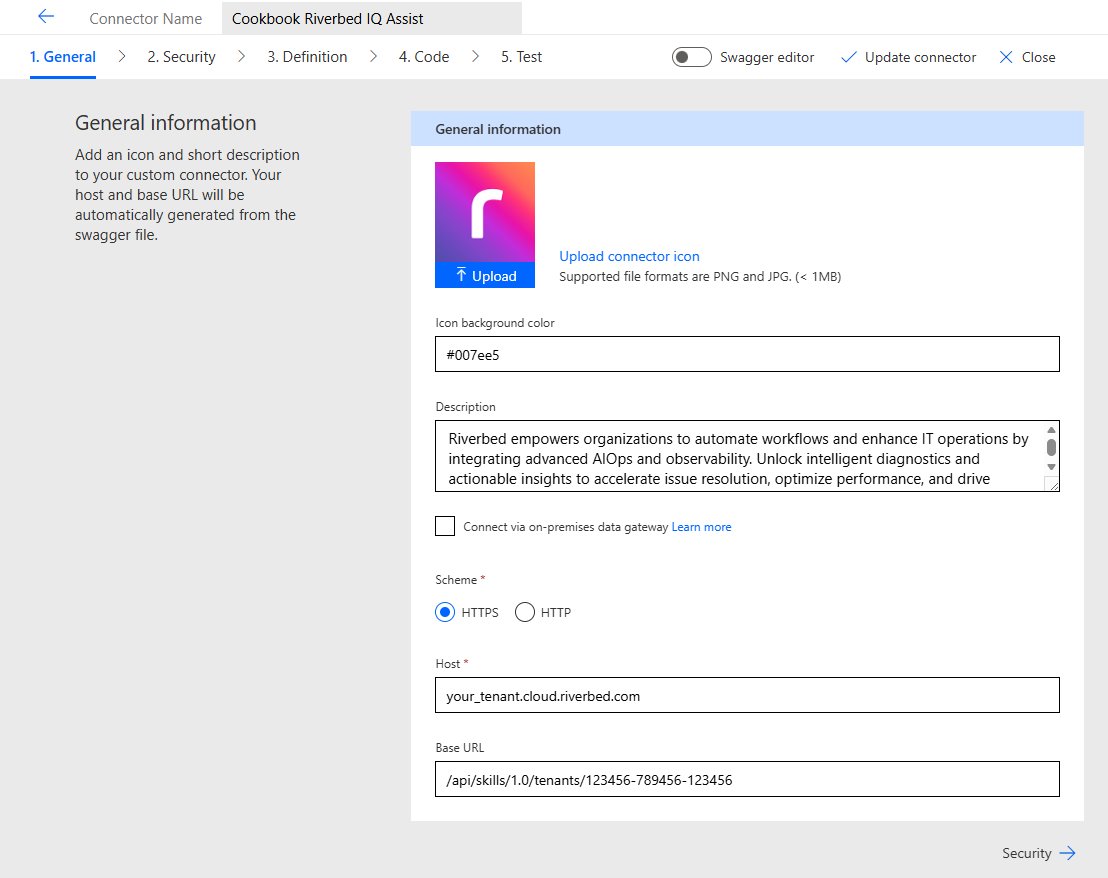
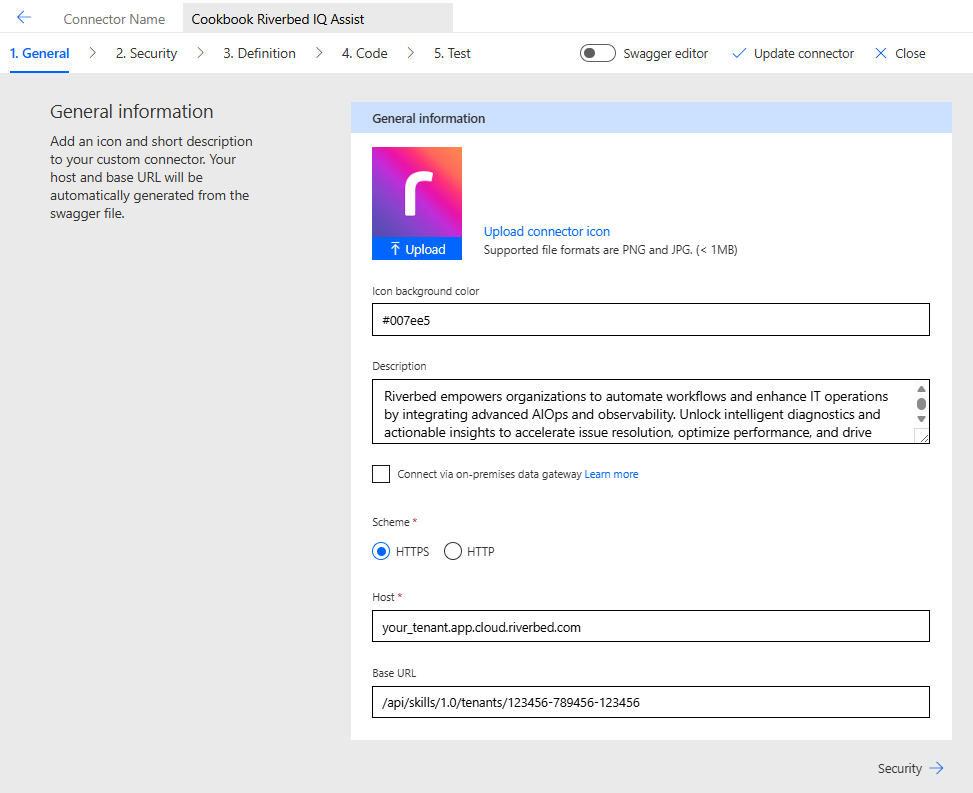
Add Faq 405

diff --git a/IQ/Agents/101-Copilot-IT-SelfService/README.md b/IQ/Agents/101-Copilot-IT-SelfService/README.md
@@ -170,7 +170,7 @@ Base URL: `/api/skills/1.0/tenants/<your Riverbed Tenant Id>` | Base URL: `/api/
 <summary>Click here to see an example screenshot</summary>
 
 ![alt Connector General](assets/screenshot_connector_general.png)
-
+![alt text](image.png)
 </details>
 
 * Go to the **2. Security** page
@@ -320,7 +320,13 @@ To make the agent available to users in Microsoft Teams:
 
 ## Frequently Asked Questions (FAQ)
 
-*work in progress*
+### How to fix errors in copilot
+
+In case of "connectorRequestFailureThe connector returned an HTTP error with code 405", it is usually a problem in the configuration of the connector. For example, a typo in the Host property.
+
+In Copilot Studio, navigate to Tools (menu) and select the connector to review and update it.
+
+
 
 ## License
 
